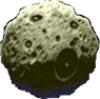
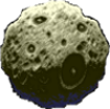
Act asteroides

diff --git a/Proyecto II/Galaxy Heroes.py b/Proyecto II/Galaxy Heroes.py
@@ -158,7 +158,7 @@ def juego(Mode):
             global OPEN
             if OPEN==True:
                 try:
-                    if t==5:
+                    if t==2:
                         Bg.Asteroid = Bg.create_image(random.uniform(100,1100), random.uniform(100,500), tags=('ast'))
                         ast_3D(0)
                         return generate_ast(0)
@@ -170,7 +170,7 @@ def juego(Mode):
                     return None
     
         def ast_3D(i):              #<== MOVER ASTEROIDE
-            if i==12:
+            if i==10:
                 return Bg.delete('ast')
             else:
                 Bg.itemconfig('ast', image=SpritesAst[i])
